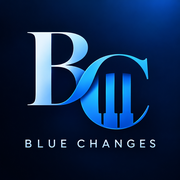
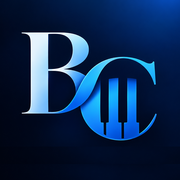
Icono para iPhone: monograma grande sin texto; cabecera ajustada a todos los tamaños (v24)
Claude-Session: https://claude.ai/code/session_01PexKmyPpdPsiZrTVSTH7bK

diff --git a/index.html b/index.html
@@ -7,9 +7,9 @@
 <meta name="apple-mobile-web-app-status-bar-style" content="black-translucent">
 <meta name="theme-color" content="#040b1c">
 <meta name="apple-mobile-web-app-title" content="Blue Changes">
-<link rel="icon" type="image/png" sizes="32x32" href="icons/favicon-32.png">
-<link rel="apple-touch-icon" sizes="180x180" href="icons/icon-180.png">
-<link rel="manifest" href="manifest.webmanifest">
+<link rel="icon" type="image/png" sizes="32x32" href="icons/favicon-32.png?v=24">
+<link rel="apple-touch-icon" sizes="180x180" href="icons/icon-180.png?v=24">
+<link rel="manifest" href="manifest.webmanifest?v=24">
 <title>Blue Changes</title>
 <link rel="preconnect" href="https://fonts.googleapis.com">
 <link rel="preconnect" href="https://fonts.gstatic.com" crossorigin>
@@ -40,6 +40,7 @@ button:focus-visible,input:focus-visible,textarea:focus-visible,select:focus-vis
 .brand .ver{font:700 10px var(--ui);color:var(--mute);letter-spacing:.1em;align-self:flex-start}
 .appbar .sub{font:600 10px var(--ui);letter-spacing:.12em;text-transform:uppercase;color:var(--mute);text-align:right;white-space:nowrap;overflow:hidden;text-overflow:ellipsis;min-width:0;flex:1}
 .appbar .brand{flex:none}
+@media (max-width:359px){.appbar .sub{display:none}.brand .ver{display:none}}
 main{flex:1;overflow-y:auto;-webkit-overflow-scrolling:touch;padding:4px 16px 20px}
 .view{display:none;flex-direction:column;gap:14px}
 .view.active{display:flex}
@@ -238,7 +239,7 @@ a{color:var(--sky)}
 <body>
 <div class="app" id="app">
   <header class="appbar">
-    <div class="brand"><img class="logo" src="icons/logo-mark.png" alt="Blue Changes" width="40" height="40"><b>Blue</b><i>changes</i><small class="ver">v23</small></div>
+    <div class="brand"><img class="logo" src="icons/logo-mark.png" alt="Blue Changes" width="40" height="40"><b>Blue</b><i>changes</i><small class="ver">v24</small></div>
     <div class="sub" id="topSub">Play-along de jazz</div>
   </header>
 
